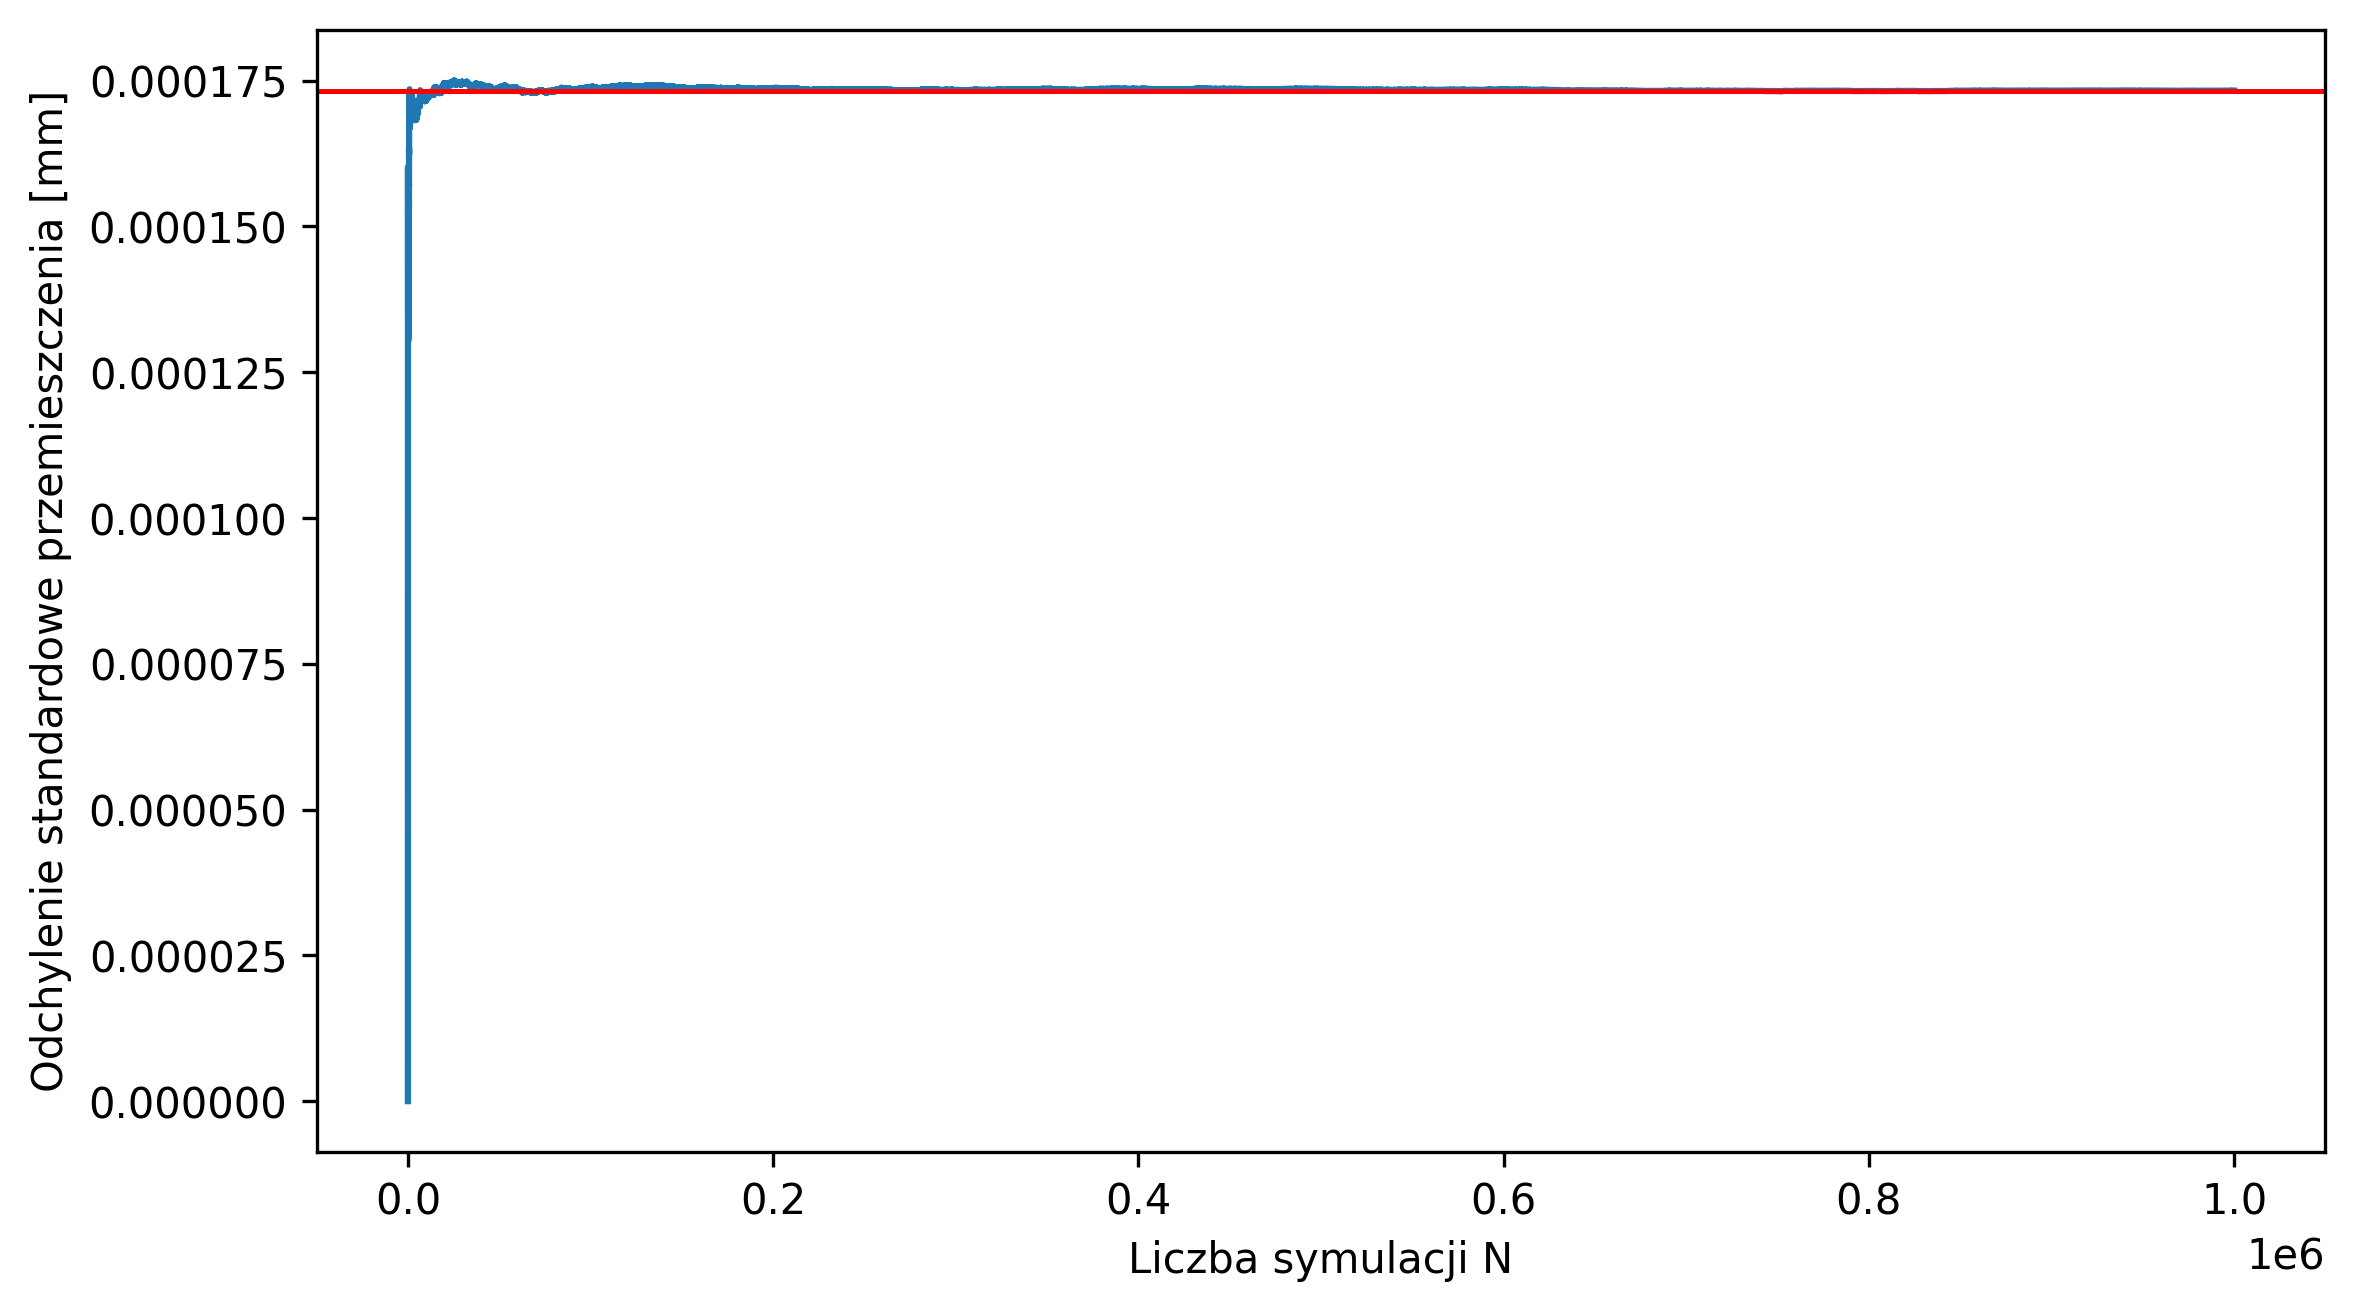
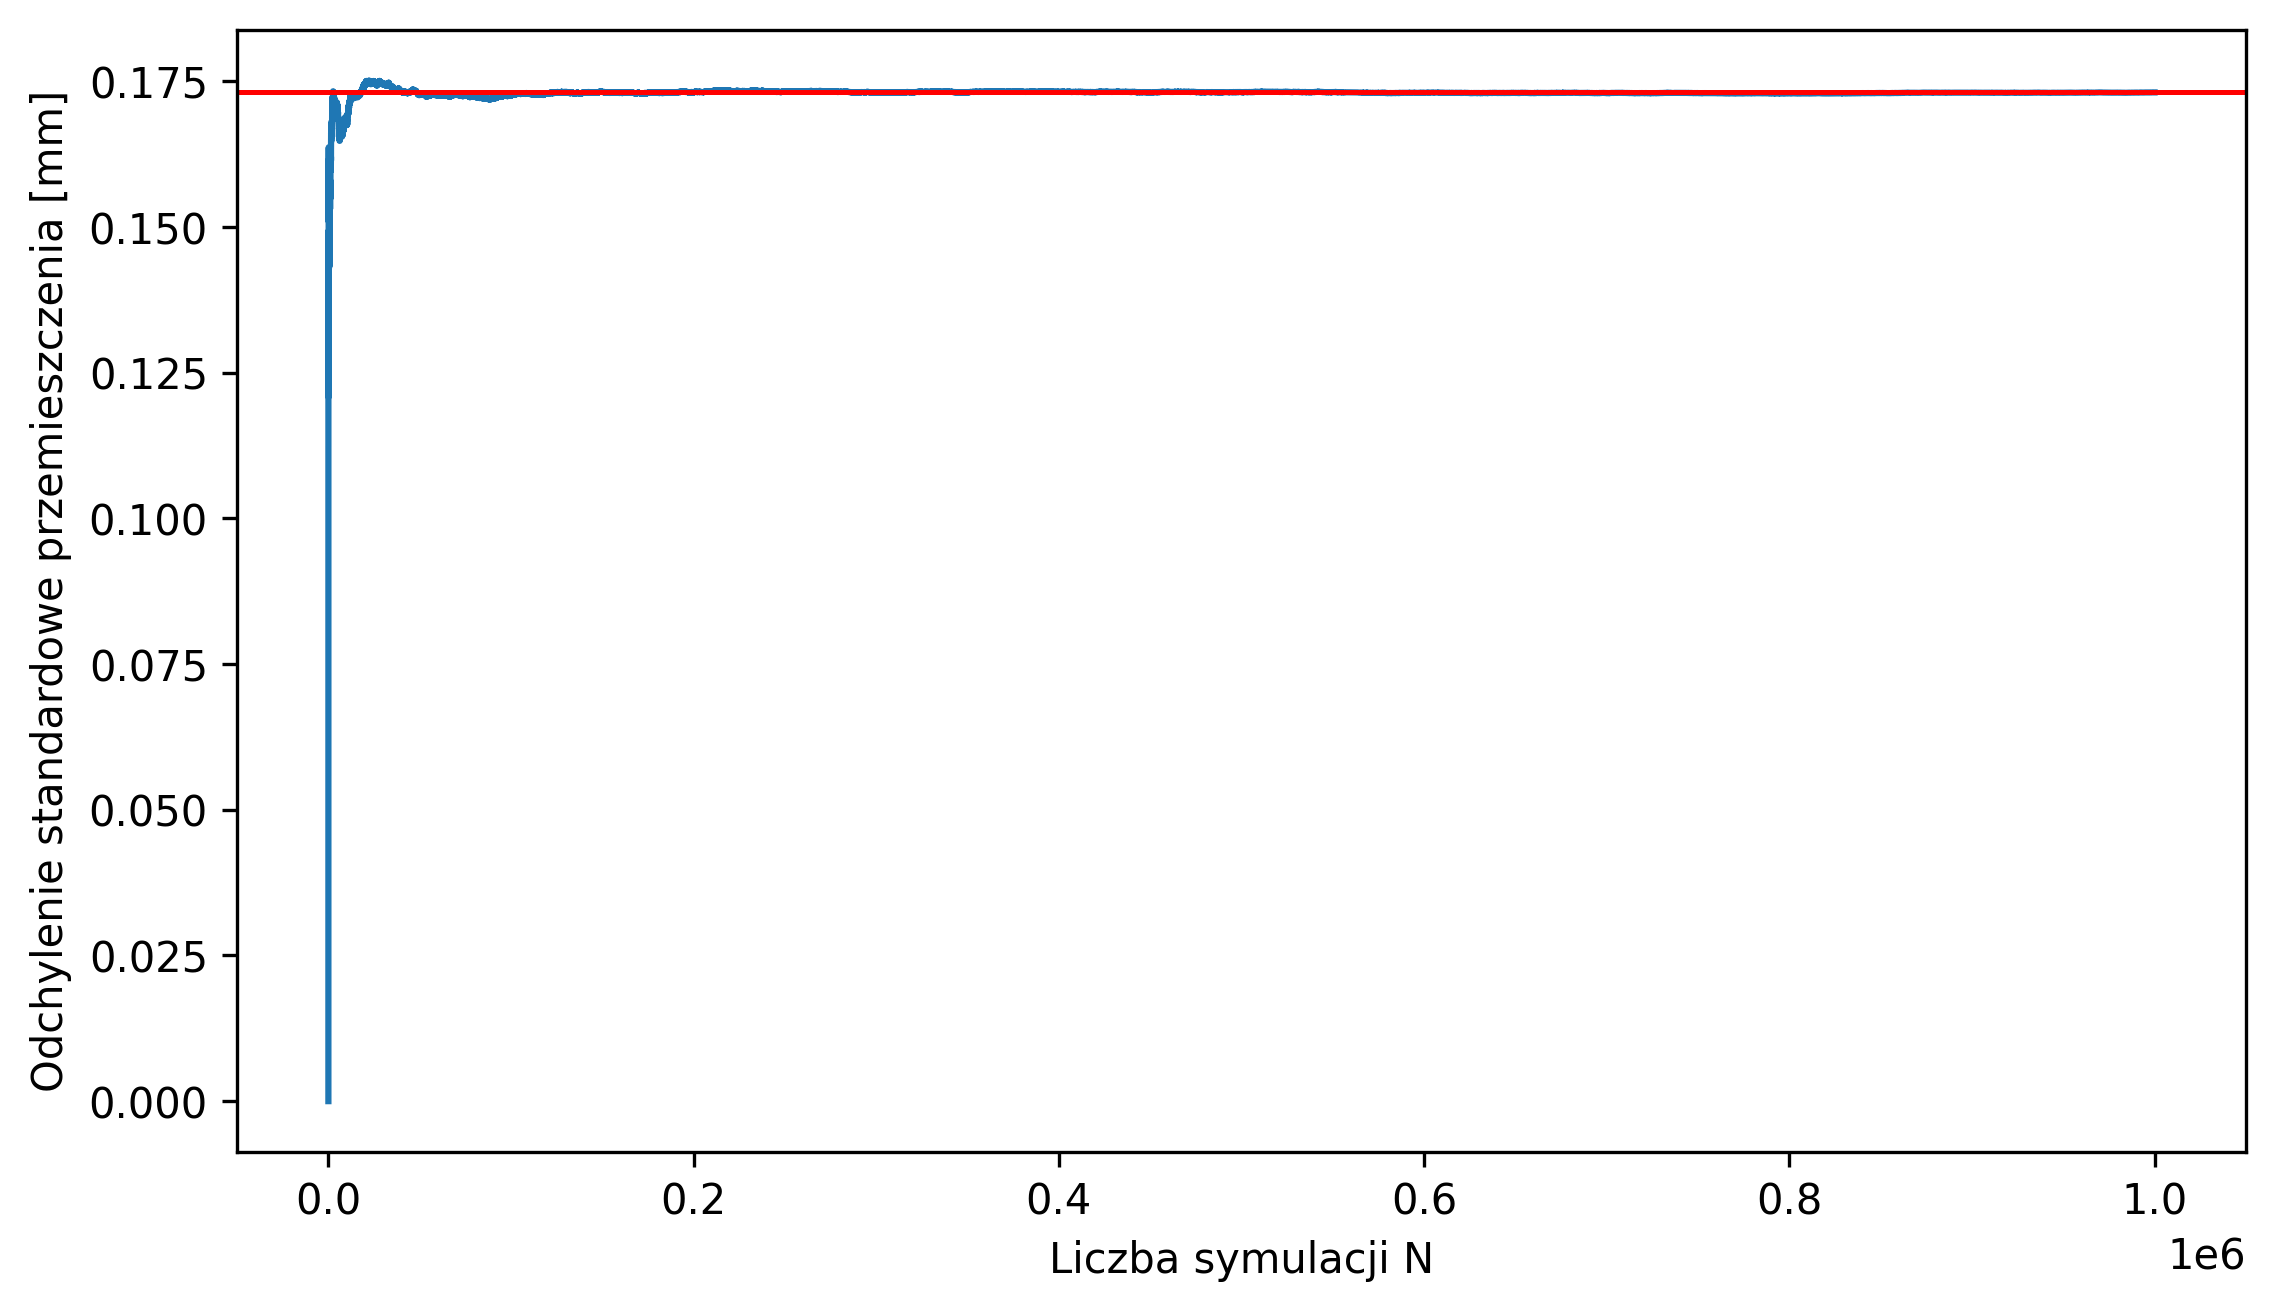
hg,,,m,

diff --git a/osp/Structures/shared.py b/osp/Structures/shared.py
@@ -66,10 +66,9 @@ def save_results(n_fail: int, n_trials: int, u_sims, structure_name: str, u_unit
         file.write(f'u_var: {u_var}\n')
         file.write(f'u_cov: {u_cov}\n')
 
-    if units_converter > 1:
-        u_sims = u_sims / units_converter
-        u_mean = u_mean / units_converter
-        u_std = u_std / units_converter
+    u_sims = u_sims / units_converter
+    u_mean = u_mean / units_converter
+    u_std = u_std / units_converter
 
     save_figure([], None, '', f'{structure_name}_model', True)
 
